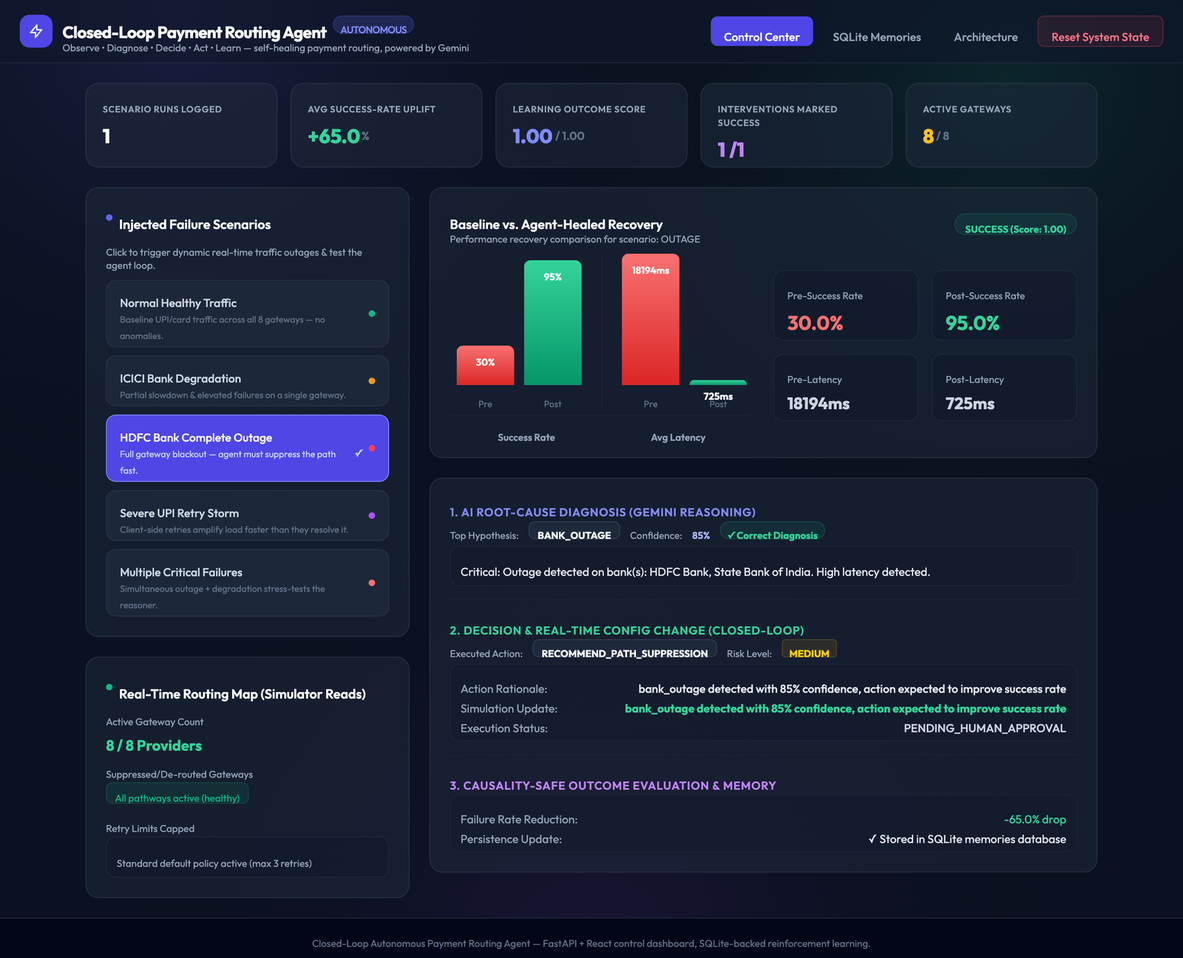
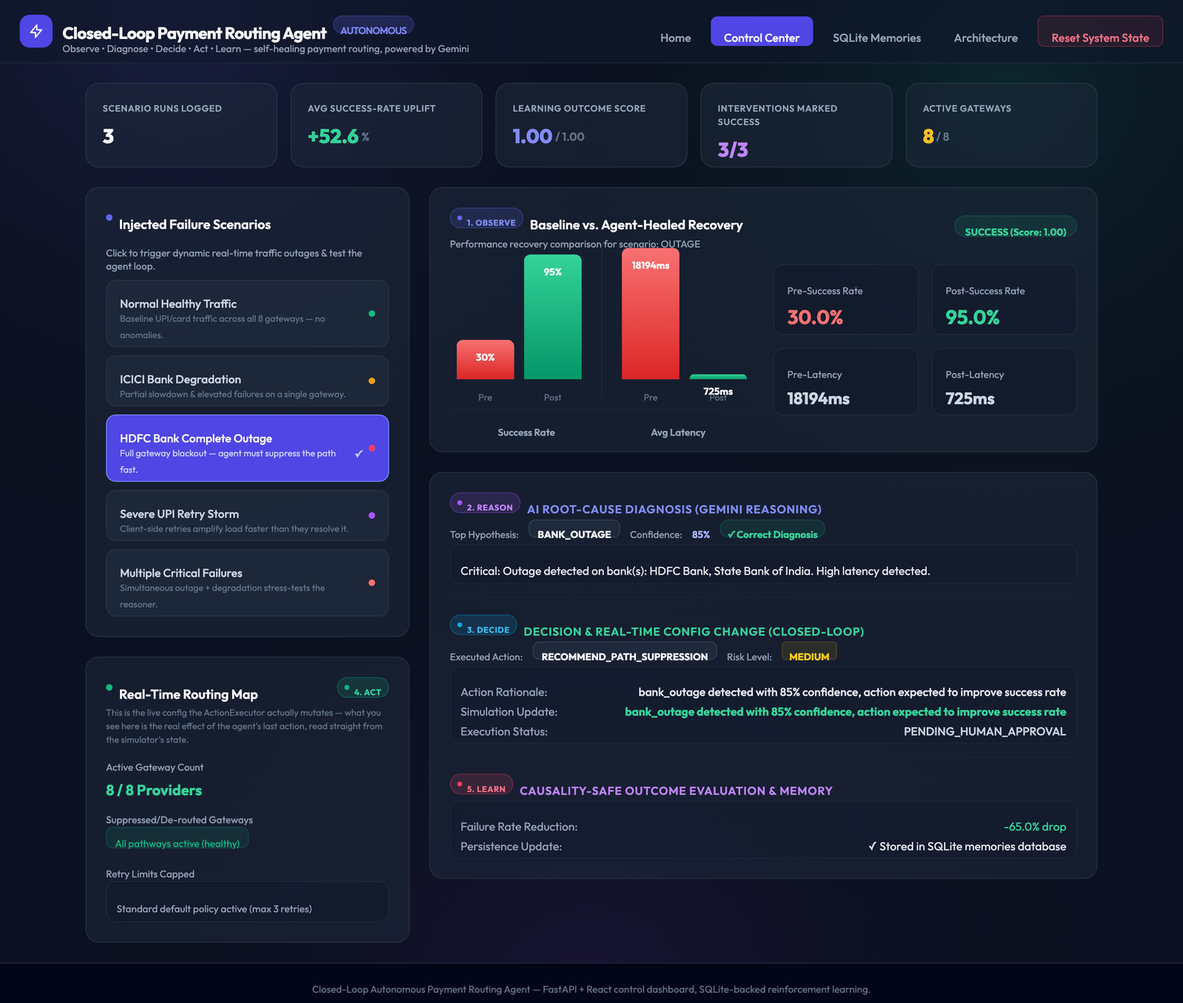
feat: add self-explaining Home page and tag every live section by pipeline stage
- Add a StageBadge (①Observe ②Reason ③Decide ④Act ⑤Learn) shown directly
  on the live Control Center results, so each card is labeled with the
  pipeline stage it represents as a scenario resolves
- Add a new Home landing tab: hero, a screenshot-illustrated walkthrough
  of all 5 stages, a feature grid, and full-dashboard previews, so the
  product explains itself before a user touches anything
- Serve docs/screenshots/ via FastAPI StaticFiles so the dashboard can
  render its own README screenshots directly
- Refresh full-dashboard and per-stage screenshots to show the new badges
- Update README with the tagged screenshot and a 5-stage screenshot grid

diff --git a/dashboard_server.py b/dashboard_server.py
@@ -14,6 +14,7 @@ import uvicorn
 from fastapi import FastAPI, HTTPException
 from fastapi.middleware.cors import CORSMiddleware
 from fastapi.responses import HTMLResponse
+from fastapi.staticfiles import StaticFiles
 
 from simulation.generator import PaymentGenerator
 from simulation.routing_config import ROUTING_STATE, reset_routing
@@ -39,6 +40,11 @@ app.add_middleware(
     allow_methods=["*"],
     allow_headers=["*"],
 )
+
+# Serve the README screenshots so the in-app Home page can show them directly
+_SCREENSHOTS_DIR = os.path.join(os.path.dirname(os.path.abspath(__file__)), "docs", "screenshots")
+if os.path.isdir(_SCREENSHOTS_DIR):
+    app.mount("/screenshots", StaticFiles(directory=_SCREENSHOTS_DIR), name="screenshots")
 
 # Shared memory db path resolve
 DB_PATH = "./data/memory/action_memory.db"
@@ -439,6 +445,26 @@ INDEX_HTML = """
             rose: { bg: "bg-rose-500/15", border: "border-rose-500/30", text: "text-rose-400", dot: "bg-rose-500" },
         };
 
+        const STAGE_META = {
+            observe: { n: 1, label: "Observe", color: "indigo", file: "metrics.py" },
+            reason: { n: 2, label: "Reason", color: "purple", file: "reasoner.py" },
+            decide: { n: 3, label: "Decide", color: "sky", file: "decider.py" },
+            act: { n: 4, label: "Act", color: "emerald", file: "executor.py" },
+            learn: { n: 5, label: "Learn", color: "rose", file: "learner.py" },
+        };
+
+        function StageBadge({ stage, size }) {
+            const meta = STAGE_META[stage];
+            const c = COLOR_MAP[meta.color];
+            const sizeClasses = size === "lg" ? "text-xs px-3 py-1.5" : "text-[10px] px-2 py-1";
+            return (
+                <span className={`inline-flex items-center gap-1.5 rounded-full border font-bold uppercase tracking-wider ${sizeClasses} ${c.bg} ${c.border} ${c.text}`} title={`Pipeline stage ${meta.n} of 5 — see ${meta.file}`}>
+                    <span className={`h-1.5 w-1.5 rounded-full ${c.dot}`}></span>
+                    {meta.n}. {meta.label}
+                </span>
+            );
+        }
+
         function ArchitectureView() {
             return (
                 <div className="space-y-6 fade-in-up">
@@ -543,8 +569,144 @@ INDEX_HTML = """
             );
         }
 
+        const STAGE_WALKTHROUGH = [
+            {
+                stage: "observe",
+                headline: "The agent watches every transaction, per gateway, in real time.",
+                body: "MetricsEngine continuously computes success rate, p95 latency, failure rate, and retry-effectiveness for each bank. This is the raw signal the rest of the loop reacts to — nothing downstream runs without this.",
+                img: "/screenshots/stages/observe.png",
+                caption: "Live from the dashboard: a real outage's pre-intervention metrics (30% success, 18.2s latency) next to the post-fix numbers (95% success, 725ms) — both computed by MetricsEngine, not hand-typed.",
+            },
+            {
+                stage: "reason",
+                headline: "Gemini looks at the signals and diagnoses what's actually wrong.",
+                body: "The reasoner scores multiple competing hypotheses — bank outage, partial degradation, retry storm — and returns the most likely one with a confidence score and a plain-English explanation. No API key or over quota? It falls back to deterministic rules automatically, so the loop never stalls.",
+                img: "/screenshots/stages/reason.png",
+                caption: "A real Gemini-2.5-flash response: 85% confidence it's a bank outage, with the specific banks named.",
+            },
+            {
+                stage: "decide",
+                headline: "A decision engine checks the diagnosis against hard safety rules before anything happens.",
+                body: "Confidence thresholds, risk limits, and human-approval gates all get checked here. A reinforcement multiplier — learned from past outcomes of similar incidents — nudges the choice of action. High-risk actions are held for a human instead of firing blind.",
+                img: "/screenshots/stages/decide.png",
+                caption: "The chosen action, its risk level, and why — including when the agent holds for human sign-off instead of auto-executing.",
+            },
+            {
+                stage: "act",
+                headline: "The loop actually closes: live routing config gets mutated, not just recommended.",
+                body: "ActionExecutor writes directly to the routing state — suppressing a dead gateway, rerouting traffic, or capping retries. This is the difference between a chatbot that suggests fixes and an agent that performs them.",
+                img: "/screenshots/stages/act.png",
+                caption: "Real effect of a retry-storm response: retry limits capped from 3 to 2 across every payment method, read live from the simulator's own state.",
+            },
+            {
+                stage: "learn",
+                headline: "Every outcome is scored and written to a real database — so the agent gets better.",
+                body: "OutcomeEvaluator compares pre/post metrics, classifies the result SUCCESS or FAILURE, and persists it to SQLite. Future decisions for similar incidents are weighted by this history. Non-interventions are never credited or blamed — that's the causality-safety guardrail.",
+                img: "/screenshots/stages/learn.png",
+                caption: "A logged outcome: failure rate dropped 65%, and the experience is now queryable in the SQLite Memories tab.",
+            },
+        ];
+
+        const HOME_FEATURES = [
+            { title: "5 injectable failure scenarios", desc: "Healthy traffic, single-bank degradation, full outage, UPI retry storm, or multiple simultaneous failures — one click each." },
+            { title: "Live KPI strip", desc: "Scenario runs, average success-rate uplift, learning outcome score, and active gateway count — all computed from real history, not hardcoded." },
+            { title: "Full SQLite audit trail", desc: "Every intervention the agent makes is queryable: baseline vs. post metrics, outcome score, and evaluation — nothing is a black box." },
+            { title: "Human-in-the-loop guardrail", desc: "High-risk actions are marked PENDING_HUMAN_APPROVAL instead of executing automatically." },
+            { title: "Graceful LLM fallback", desc: "If Gemini is rate-limited or down, a deterministic rule-based reasoner takes over so the loop never stalls." },
+            { title: "Causality-safe learning", desc: "The agent never takes credit or blame for outcomes it didn't cause — do_nothing and alert_ops actions are excluded from reinforcement." },
+        ];
+
+        function HomeView({ onLaunch, onArchitecture }) {
+            return (
+                <div className="space-y-10 fade-in-up">
+                    {/* Hero */}
+                    <div className="glass-card rounded-2xl p-8 md:p-12 shadow-xl text-center">
+                        <span className="inline-block text-xs font-bold uppercase tracking-widest text-indigo-400 bg-indigo-500/10 border border-indigo-500/25 rounded-full px-3 py-1 mb-4">Live, working demo — not a mockup</span>
+                        <h2 className="text-2xl md:text-4xl font-extrabold text-white leading-tight max-w-3xl mx-auto">
+                            An AI agent that watches, diagnoses, and fixes payment routing failures — on its own.
+                        </h2>
+                        <p className="text-sm md:text-base text-slate-400 max-w-2xl mx-auto mt-4">
+                            When a bank gateway degrades or goes down, this agent detects it, asks Gemini to diagnose the root cause, decides on a safe fix, rewrites the live routing config, and remembers whether it worked — every step tagged below so you can see exactly which part of the loop is running.
+                        </p>
+                        <div className="flex flex-wrap items-center justify-center gap-3 mt-7">
+                            <button onClick={onLaunch} className="px-6 py-3 rounded-xl text-sm font-bold bg-indigo-600 hover:bg-indigo-500 text-white shadow-lg shadow-indigo-500/25 transition">
+                                ▶ Launch Live Demo
+                            </button>
+                            <button onClick={onArchitecture} className="px-6 py-3 rounded-xl text-sm font-bold bg-slate-800/80 hover:bg-slate-700/80 border border-slate-700/50 text-slate-200 transition">
+                                View Architecture
+                            </button>
+                        </div>
+                        <div className="flex flex-wrap items-center justify-center gap-2 mt-6">
+                            {["observe", "reason", "decide", "act", "learn"].map(s => <StageBadge key={s} stage={s} size="lg" />)}
+                        </div>
+                    </div>
+
+                    {/* Stage-by-stage walkthrough */}
+                    <div>
+                        <h3 className="text-lg font-bold text-white mb-1 text-center">How the closed loop works — tagged, live, and screenshotted</h3>
+                        <p className="text-xs text-slate-400 text-center max-w-2xl mx-auto mb-8">Every one of these five stages is labeled directly in the live dashboard with the same colored badge you see here — so when you run a scenario, you always know exactly which part of the pipeline you're looking at.</p>
+                        <div className="space-y-6">
+                            {STAGE_WALKTHROUGH.map((s, i) => (
+                                <div key={s.stage} className="glass-card rounded-2xl p-6 shadow-xl grid grid-cols-1 lg:grid-cols-2 gap-6 items-center">
+                                    <div className={i % 2 === 1 ? "lg:order-2" : ""}>
+                                        <StageBadge stage={s.stage} size="lg" />
+                                        <h4 className="text-base font-bold text-white mt-3 mb-2">{s.headline}</h4>
+                                        <p className="text-sm text-slate-400 leading-relaxed">{s.body}</p>
+                                    </div>
+                                    <div className={i % 2 === 1 ? "lg:order-1" : ""}>
+                                        <div className="rounded-xl overflow-hidden border border-slate-800 bg-slate-950">
+                                            <img src={s.img} alt={`${s.stage} stage screenshot`} className="w-full block" loading="lazy" />
+                                        </div>
+                                        <p className="text-[11px] text-slate-500 mt-2 leading-relaxed">{s.caption}</p>
+                                    </div>
+                                </div>
+                            ))}
+                        </div>
+                    </div>
+
+                    {/* Feature grid */}
+                    <div>
+                        <h3 className="text-lg font-bold text-white mb-6 text-center">What's actually in this build</h3>
+                        <div className="grid grid-cols-1 md:grid-cols-3 gap-4">
+                            {HOME_FEATURES.map(f => (
+                                <div key={f.title} className="glass-card rounded-xl p-5">
+                                    <h4 className="text-sm font-bold text-white mb-1.5">{f.title}</h4>
+                                    <p className="text-xs text-slate-400 leading-relaxed">{f.desc}</p>
+                                </div>
+                            ))}
+                        </div>
+                    </div>
+
+                    {/* Full-dashboard previews */}
+                    <div>
+                        <h3 className="text-lg font-bold text-white mb-6 text-center">The full dashboard</h3>
+                        <div className="grid grid-cols-1 lg:grid-cols-2 gap-6">
+                            <div className="glass-card rounded-2xl p-4 shadow-xl">
+                                <div className="rounded-xl overflow-hidden border border-slate-800">
+                                    <img src="/screenshots/control_center_outage_recovery.png" alt="Control Center full view" className="w-full block" loading="lazy" />
+                                </div>
+                                <p className="text-xs text-slate-400 mt-3 px-1">Control Center — inject a failure and watch the full loop resolve it in one cycle.</p>
+                            </div>
+                            <div className="glass-card rounded-2xl p-4 shadow-xl">
+                                <div className="rounded-xl overflow-hidden border border-slate-800">
+                                    <img src="/screenshots/sqlite_memories_log.png" alt="SQLite Memories full view" className="w-full block" loading="lazy" />
+                                </div>
+                                <p className="text-xs text-slate-400 mt-3 px-1">SQLite Memories — the full audit trail of every decision the agent has made.</p>
+                            </div>
+                        </div>
+                    </div>
+
+                    <div className="text-center pb-4">
+                        <button onClick={onLaunch} className="px-6 py-3 rounded-xl text-sm font-bold bg-indigo-600 hover:bg-indigo-500 text-white shadow-lg shadow-indigo-500/25 transition">
+                            ▶ Try It Yourself — Launch Live Demo
+                        </button>
+                    </div>
+                </div>
+            );
+        }
+
         function App() {
-            const [activeTab, setActiveTab] = useState("dashboard");
+            const [activeTab, setActiveTab] = useState("home");
             const [scenarioRunning, setScenarioRunning] = useState(false);
             const [routingState, setRoutingState] = useState({ active_banks: [], suppressed_banks: [], retry_limits: {} });
             const [history, setHistory] = useState([]);
@@ -663,6 +825,9 @@ INDEX_HTML = """
                             </div>
                         </div>
                         <div className="flex items-center space-x-2">
+                            <button onClick={() => setActiveTab("home")} className={`px-4 py-2 text-sm font-medium rounded-lg transition ${activeTab === 'home' ? 'bg-indigo-600 text-white shadow-md shadow-indigo-500/20' : 'text-slate-400 hover:text-slate-200 hover:bg-slate-800/60'}`}>
+                                Home
+                            </button>
                             <button onClick={() => setActiveTab("dashboard")} className={`px-4 py-2 text-sm font-medium rounded-lg transition ${activeTab === 'dashboard' ? 'bg-indigo-600 text-white shadow-md shadow-indigo-500/20' : 'text-slate-400 hover:text-slate-200 hover:bg-slate-800/60'}`}>
                                 Control Center
                             </button>
@@ -679,19 +844,23 @@ INDEX_HTML = """
                     </header>
 
                     {/* KPI strip */}
-                    <div className="px-6 pt-6 max-w-7xl mx-auto w-full">
-                        <div className="flex flex-wrap gap-4">
-                            <StatPill label="Scenario Runs Logged" value={totalRuns} accent="text-white" suffix="" />
-                            <StatPill label="Avg Success-Rate Uplift" value={totalRuns ? `+${avgUplift.toFixed(1)}` : "—"} accent="text-emerald-400" suffix={totalRuns ? "%" : ""} />
-                            <StatPill label="Learning Outcome Score" value={totalRuns ? avgScore.toFixed(2) : "—"} accent="text-indigo-400" suffix="/ 1.00" />
-                            <StatPill label="Interventions Marked Success" value={totalRuns ? `${successCount}/${totalRuns}` : "—"} accent="text-purple-400" suffix="" />
-                            <StatPill label="Active Gateways" value={`${routingState.active_banks.length}`} accent="text-amber-400" suffix="/ 8" />
+                    {activeTab !== "home" && (
+                        <div className="px-6 pt-6 max-w-7xl mx-auto w-full">
+                            <div className="flex flex-wrap gap-4">
+                                <StatPill label="Scenario Runs Logged" value={totalRuns} accent="text-white" suffix="" />
+                                <StatPill label="Avg Success-Rate Uplift" value={totalRuns ? `+${avgUplift.toFixed(1)}` : "—"} accent="text-emerald-400" suffix={totalRuns ? "%" : ""} />
+                                <StatPill label="Learning Outcome Score" value={totalRuns ? avgScore.toFixed(2) : "—"} accent="text-indigo-400" suffix="/ 1.00" />
+                                <StatPill label="Interventions Marked Success" value={totalRuns ? `${successCount}/${totalRuns}` : "—"} accent="text-purple-400" suffix="" />
+                                <StatPill label="Active Gateways" value={`${routingState.active_banks.length}`} accent="text-amber-400" suffix="/ 8" />
+                            </div>
                         </div>
-                    </div>
+                    )}
 
                     {/* Main Area */}
                     <main className="flex-1 p-6 max-w-7xl mx-auto w-full">
-                        {activeTab === "architecture" ? (
+                        {activeTab === "home" ? (
+                            <HomeView onLaunch={() => setActiveTab("dashboard")} onArchitecture={() => setActiveTab("architecture")} />
+                        ) : activeTab === "architecture" ? (
                             <ArchitectureView />
                         ) : activeTab === "dashboard" ? (
                             <div className="grid grid-cols-1 lg:grid-cols-3 gap-6">
@@ -728,10 +897,14 @@ INDEX_HTML = """
 
                                     {/* Active Routing config state */}
                                     <div className="glass-card rounded-2xl p-6 shadow-xl">
-                                        <h3 className="text-base font-semibold text-white mb-4 flex items-center gap-2">
-                                            <span className="h-2 w-2 bg-emerald-500 rounded-full"></span>
-                                            Real-Time Routing Map (Simulator Reads)
-                                        </h3>
+                                        <div className="flex items-center justify-between mb-4">
+                                            <h3 className="text-base font-semibold text-white flex items-center gap-2">
+                                                <span className="h-2 w-2 bg-emerald-500 rounded-full"></span>
+                                                Real-Time Routing Map
+                                            </h3>
+                                            <StageBadge stage="act" />
+                                        </div>
+                                        <p className="text-[11px] text-slate-500 -mt-3 mb-4">This is the live config the ActionExecutor actually mutates — what you see here is the real effect of the agent's last action, read straight from the simulator's state.</p>
                                         <div className="space-y-4">
                                             <div>
                                                 <span className="text-xs text-slate-400 block mb-1">Active Gateway Count</span>
@@ -794,9 +967,12 @@ INDEX_HTML = """
                                         <div className="space-y-6">
                                             {/* Baseline Comparison Card */}
                                             <div className="glass-card rounded-2xl p-6 shadow-xl">
-                                                <div className="flex items-center justify-between mb-4">
+                                                <div className="flex items-center justify-between mb-1">
                                                     <div>
-                                                        <h3 className="text-base font-semibold text-white">Baseline vs. Agent-Healed Recovery</h3>
+                                                        <div className="flex items-center gap-2 mb-1">
+                                                            <StageBadge stage="observe" />
+                                                            <h3 className="text-base font-semibold text-white">Baseline vs. Agent-Healed Recovery</h3>
+                                                        </div>
                                                         <p className="text-xs text-slate-400">Performance recovery comparison for scenario: {latestRun.scenario.toUpperCase()}</p>
                                                     </div>
                                                     <span className={`text-xs font-bold px-3 py-1 rounded-full border ${latestRun.learning.outcome === 'SUCCESS' ? 'bg-emerald-500/10 text-emerald-400 border-emerald-500/20' : 'bg-amber-500/10 text-amber-400 border-amber-500/20'}`}>
@@ -837,7 +1013,10 @@ INDEX_HTML = """
                                             {/* AI Diagnosis and Action Card */}
                                             <div className="glass-card rounded-2xl p-6 shadow-xl space-y-5">
                                                 <div className="border-b border-slate-800/60 pb-4">
-                                                    <h4 className="text-sm font-semibold text-indigo-400 uppercase tracking-wider mb-2">1. AI Root-Cause Diagnosis (Gemini Reasoning)</h4>
+                                                    <div className="flex items-center gap-2 mb-2">
+                                                        <StageBadge stage="reason" />
+                                                        <h4 className="text-sm font-semibold text-indigo-400 uppercase tracking-wider">AI Root-Cause Diagnosis (Gemini Reasoning)</h4>
+                                                    </div>
                                                     <div className="flex items-center gap-3 mb-2">
                                                         <span className="text-xs text-slate-400">Top Hypothesis:</span>
                                                         <span className="text-xs font-bold text-white bg-slate-800 px-2.5 py-0.5 rounded-lg border border-slate-700">
@@ -857,7 +1036,10 @@ INDEX_HTML = """
                                                 </div>
 
                                                 <div className="border-b border-slate-800/60 pb-4">
-                                                    <h4 className="text-sm font-semibold text-emerald-400 uppercase tracking-wider mb-2">2. Decision & Real-Time Config Change (Closed-Loop)</h4>
+                                                    <div className="flex items-center gap-2 mb-2">
+                                                        <StageBadge stage="decide" />
+                                                        <h4 className="text-sm font-semibold text-emerald-400 uppercase tracking-wider">Decision & Real-Time Config Change (Closed-Loop)</h4>
+                                                    </div>
                                                     <div className="flex items-center gap-3 mb-2">
                                                         <span className="text-xs text-slate-400">Executed Action:</span>
                                                         <span className="text-xs font-bold text-white bg-slate-800 px-2.5 py-0.5 rounded-lg border border-slate-700">
@@ -876,7 +1058,10 @@ INDEX_HTML = """
                                                 </div>
 
                                                 <div>
-                                                    <h4 className="text-sm font-semibold text-purple-400 uppercase tracking-wider mb-2">3. Causality-Safe Outcome Evaluation & Memory</h4>
+                                                    <div className="flex items-center gap-2 mb-2">
+                                                        <StageBadge stage="learn" />
+                                                        <h4 className="text-sm font-semibold text-purple-400 uppercase tracking-wider">Causality-Safe Outcome Evaluation & Memory</h4>
+                                                    </div>
                                                     <div className="text-sm text-slate-300 bg-slate-900/40 p-3 rounded-xl border border-slate-800/80 space-y-1">
                                                         <div className="flex justify-between"><span className="text-slate-400">Failure Rate Reduction:</span> <span className="text-emerald-400">-{((latestRun.pre_metrics.failure_rate - latestRun.post_metrics.failure_rate)*100).toFixed(1)}% drop</span></div>
                                                         <div className="flex justify-between"><span className="text-slate-400">Persistence Update:</span> <span className="text-slate-200">{latestRun.learning.saved ? "✓ Stored in SQLite memories database" : "Skipped (Causality safety active on non-intervention)"}</span></div>

diff --git a/README.md b/README.md
@@ -8,28 +8,45 @@ Built to demonstrate what an AI-native reliability layer for a payments platform
 
 ---
 
-## 🖥 Live Demo — Control Dashboard
+## 🖥 Live Demo — Self-Explaining Control Dashboard
 
-The system ships with an interactive **FastAPI + React control dashboard** (single process, zero build step) so the entire closed loop can be triggered and inspected from a browser. Below is the actual dashboard, running locally against the live agent — a real HDFC Bank outage scenario, diagnosed by Gemini, resolved automatically, and its outcome persisted to SQLite:
-
-![Control Center — outage detected, diagnosed, and auto-resolved](docs/screenshots/control_center_outage_recovery.png)
-
-*Top: live KPI strip aggregated from real scenario runs. Left: one-click failure injection. Right: the actual Gemini diagnosis, the decision engine's chosen action and risk level, and the pre/post recovery bars — all from a real request/response cycle, not mocked.*
-
-Every intervention is written to a real SQLite database and surfaced in the **SQLite Memories** tab, so the reinforcement-learning signal is auditable, not a black box:
-
-![SQLite Memories — full audit trail of past agent decisions and outcomes](docs/screenshots/sqlite_memories_log.png)
+The system ships with an interactive **FastAPI + React control dashboard** (single process, zero build step) so the entire closed loop can be triggered and inspected from a browser — and every part of the screen is **tagged with the pipeline stage it belongs to**, so you always know whether you're looking at what the system *observed*, *reasoned*, *decided*, *acted on*, or *learned*.
 
 ```bash
 # Start the FastAPI + React Control Dashboard Server
 python dashboard_server.py
 ```
-Open **[http://localhost:8000/](http://localhost:8000/)** and you get:
+Open **[http://localhost:8000/](http://localhost:8000/)** and you land on a **Home page** that explains the whole product before you touch anything — a live walkthrough of all five stages, each with its own screenshot and colored badge (①Observe ②Reason ③Decide ④Act ⑤Learn), plus a feature grid and one-click links into the live demo.
 
-*   **Control Center** — one-click failure injection (healthy traffic, single-bank degradation, full outage, UPI retry storm, or multiple simultaneous failures), a live KPI strip, the real-time routing map, and a step-by-step breakdown of the agent's diagnosis → decision → execution → learning cycle for the last run.
+Then in the **Control Center**, the same five badges appear directly on the real results of a scenario run — a real HDFC Bank outage, diagnosed by Gemini, resolved automatically, and its outcome persisted to SQLite:
+
+![Control Center — every section tagged with its pipeline stage](docs/screenshots/control_center_outage_recovery.png)
+
+*Every card is labeled: ① OBSERVE (the baseline vs. healed metrics MetricsEngine computed), ② REASON (Gemini's diagnosis and confidence), ③ DECIDE (the decision engine's chosen action, risk level, and rationale), ④ ACT (the live routing config the executor actually mutated), ⑤ LEARN (the outcome score persisted to SQLite). Nothing here is mocked — this is a real request/response cycle.*
+
+Every intervention is written to a real SQLite database and surfaced in the **SQLite Memories** tab, so the reinforcement-learning signal is auditable, not a black box:
+
+![SQLite Memories — full audit trail of past agent decisions and outcomes](docs/screenshots/sqlite_memories_log.png)
+
+What you get, tab by tab:
+
+*   **Home** — a self-explaining landing page: what the product does, a screenshot-illustrated walkthrough of all 5 pipeline stages, a feature grid, and full-dashboard previews.
+*   **Control Center** — one-click failure injection (healthy traffic, single-bank degradation, full outage, UPI retry storm, or multiple simultaneous failures), a live KPI strip, and the stage-tagged breakdown of the agent's diagnosis → decision → execution → learning cycle for the last run.
 *   **SQLite Memories** — the full historical audit log of every intervention the agent has made, queried live from the database, with baseline vs. post-intervention deltas and outcome scores.
 *   **Architecture** — an interactive map of the five-stage pipeline, each stage linked to its real source file, plus the safety guardrails and available routing actions.
 *   Toast notifications and a confirm-before-destroy modal for state resets — this is built to be demoed live, not just curl'd.
+
+### The five stages, tagged and screenshotted individually
+
+| ① Observe | ② Reason | ③ Decide |
+| :---: | :---: | :---: |
+| ![Observe](docs/screenshots/stages/observe.png) | ![Reason](docs/screenshots/stages/reason.png) | ![Decide](docs/screenshots/stages/decide.png) |
+| MetricsEngine's pre/post signal | Gemini's diagnosis + confidence | The decision engine's chosen action |
+
+| ④ Act | ⑤ Learn |
+| :---: | :---: |
+| ![Act](docs/screenshots/stages/act.png) | ![Learn](docs/screenshots/stages/learn.png) |
+| The live routing config actually mutated | Outcome scored and persisted to SQLite |
 
 ---
 
